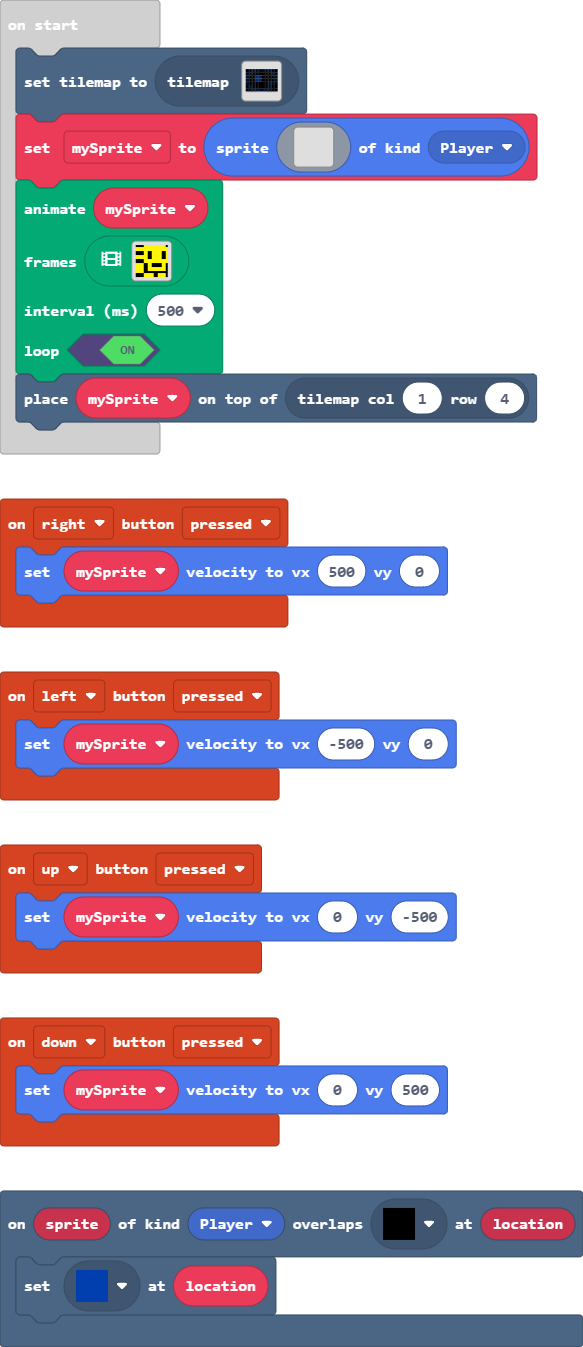
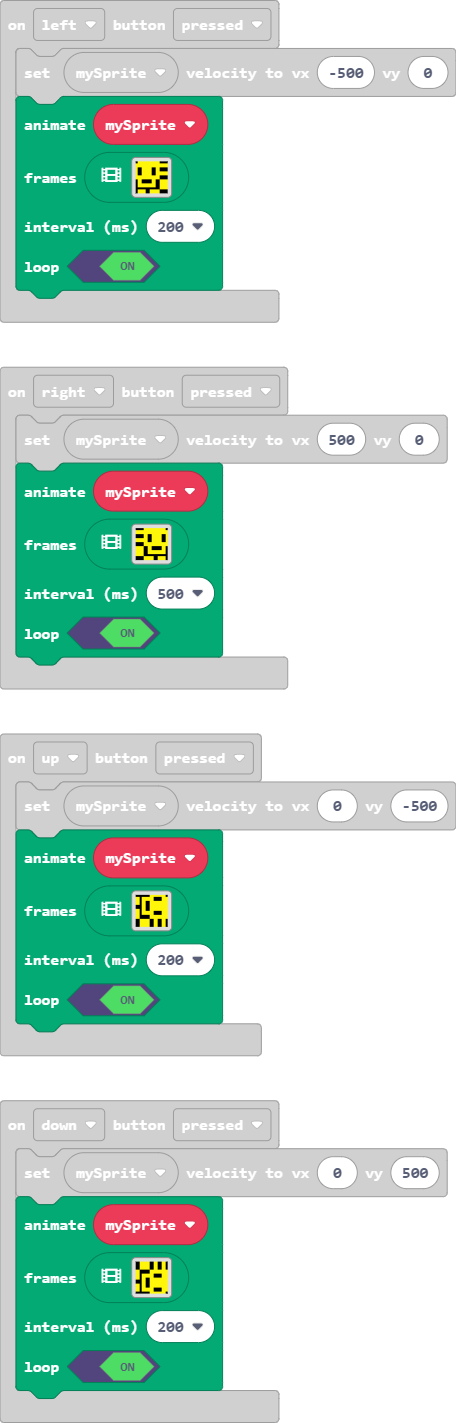
Update main.blocks, main.ts, tilemap.g.jres, tilemap.g.ts, images.g.jres, images.g.ts

diff --git a/images.g.ts b/images.g.ts
@@ -28,7 +28,7 @@ namespace myImages {
 
     helpers._registerFactory("animation", function(name: string) {
         switch(helpers.stringTrim(name)) {
-            case "myAnim":
+            case "hero_right":
             case "anim1":return [img`
 f f f f 5 5 5 5 5 5 5 5 5 5 5 f 
 5 5 5 5 5 5 5 5 5 5 5 5 5 5 5 5 
@@ -63,6 +63,114 @@ f f f f 5 5 5 5 5 5 5 5 5 5 5 5
 5 5 5 5 f f 5 5 5 5 5 5 5 5 5 f 
 f f f f 5 5 5 5 5 f f 5 5 5 5 f 
 f f f f 5 5 5 5 5 f f 5 5 5 5 f 
+`];
+            case "hero_left":
+            case "anim3":return [img`
+f 5 5 5 5 5 5 5 5 5 5 5 f f f f 
+5 5 5 5 5 5 5 5 5 5 5 5 5 5 5 5 
+5 5 5 5 5 5 5 5 5 5 5 5 5 5 5 5 
+5 f f 5 5 5 5 5 f f 5 5 f f f f 
+5 f f 5 5 5 5 5 f f 5 5 f f f f 
+5 f f 5 5 5 5 5 f f 5 5 5 5 5 5 
+5 f f 5 5 5 5 5 f f 5 5 5 5 5 5 
+5 5 5 5 5 5 5 5 5 5 5 5 f f f f 
+5 5 5 5 5 5 5 5 5 5 5 5 f f f f 
+f 5 5 f f f f f 5 5 f f 5 5 5 5 
+f 5 5 f f f f f 5 5 f f 5 5 5 5 
+f 5 5 5 5 5 5 5 5 5 f f 5 5 5 5 
+f 5 5 5 5 5 5 5 5 5 f f 5 5 5 5 
+f f f f f f f f f f f f 5 5 5 5 
+f 5 5 5 5 f f 5 5 5 5 5 f f f f 
+f 5 5 5 5 f f 5 5 5 5 5 f f f f 
+`, img`
+f f f f f f f f f f f f f f f f 
+f 5 5 5 5 5 5 5 5 5 5 5 f f f f 
+5 5 5 5 5 5 5 5 5 5 5 5 5 5 5 5 
+5 5 5 5 5 5 5 5 5 5 5 5 5 5 5 5 
+5 f f 5 5 5 5 5 f f 5 5 f f f f 
+5 f f 5 5 5 5 5 f f 5 5 f f f f 
+5 f f 5 5 5 5 5 f f 5 5 5 5 5 5 
+5 f f 5 5 5 5 5 f f 5 5 5 5 5 5 
+5 5 5 5 5 5 5 5 5 5 5 5 f f f f 
+5 5 5 5 5 5 5 5 5 5 5 5 f f f f 
+f 5 5 f f f f f 5 5 f f 5 5 5 5 
+f 5 5 f f f f f 5 5 f f 5 5 5 5 
+f 5 5 5 5 5 5 5 5 5 f f 5 5 5 5 
+f 5 5 5 5 5 5 5 5 5 f f 5 5 5 5 
+f 5 5 5 5 f f 5 5 5 5 5 f f f f 
+f 5 5 5 5 f f 5 5 5 5 5 f f f f 
+`];
+            case "hero_up":
+            case "anim4":return [img`
+f f f f f f f 5 5 5 5 5 5 5 5 f 
+5 5 f 5 5 5 5 5 5 f f f f 5 5 5 
+5 5 f 5 5 5 5 5 5 f f f f 5 5 5 
+5 5 f 5 5 f f 5 5 5 5 5 5 5 5 5 
+5 5 f 5 5 f f 5 5 5 5 5 5 5 5 5 
+f f f 5 5 f f 5 5 5 5 5 5 5 5 5 
+f f f 5 5 f f 5 5 5 5 5 5 5 5 5 
+5 5 f 5 5 f f 5 5 5 5 5 5 5 5 5 
+5 5 f 5 5 5 5 5 5 f f f f 5 5 5 
+5 5 f 5 5 5 5 5 5 f f f f 5 5 5 
+5 5 f f f f f 5 5 5 5 5 5 5 5 5 
+5 5 f f f f f 5 5 5 5 5 5 5 5 5 
+f f 5 5 5 5 5 f f 5 5 f f 5 5 f 
+f f 5 5 5 5 5 f f 5 5 f f 5 5 f 
+f f 5 5 5 5 5 f f 5 5 f f 5 5 f 
+f f 5 5 5 5 5 f f 5 5 f f 5 5 f 
+`, img`
+f f f f f f 5 5 5 5 5 5 5 5 f f 
+5 5 5 5 5 5 5 5 f f f f 5 5 5 f 
+5 5 5 5 5 5 5 5 f f f f 5 5 5 f 
+5 5 5 5 f f 5 5 5 5 5 5 5 5 5 f 
+5 5 5 5 f f 5 5 5 5 5 5 5 5 5 f 
+f f 5 5 f f 5 5 5 5 5 5 5 5 5 f 
+f f 5 5 f f 5 5 5 5 5 5 5 5 5 f 
+5 5 5 5 f f 5 5 5 5 5 5 5 5 5 f 
+5 5 5 5 5 5 5 5 f f f f 5 5 5 f 
+5 5 5 5 5 5 5 5 f f f f 5 5 5 f 
+5 5 f f f f 5 5 5 5 5 5 5 5 5 f 
+5 5 f f f f 5 5 5 5 5 5 5 5 5 f 
+f f 5 5 5 5 f f 5 5 f f 5 5 f f 
+f f 5 5 5 5 f f 5 5 f f 5 5 f f 
+f f 5 5 5 5 f f 5 5 f f 5 5 f f 
+f f 5 5 5 5 f f 5 5 f f 5 5 f f 
+`];
+            case "hero_down":
+            case "anim2":return [img`
+f f 5 5 5 5 5 f f 5 5 f f 5 5 f 
+f f 5 5 5 5 5 f f 5 5 f f 5 5 f 
+f f 5 5 5 5 5 f f 5 5 f f 5 5 f 
+f f 5 5 5 5 5 f f 5 5 f f 5 5 f 
+5 5 f f f f f 5 5 5 5 5 5 5 5 5 
+5 5 f f f f f 5 5 5 5 5 5 5 5 5 
+5 5 f 5 5 5 5 5 5 f f f f 5 5 5 
+5 5 f 5 5 5 5 5 5 f f f f 5 5 5 
+5 5 f 5 5 f f 5 5 5 5 5 5 5 5 5 
+f f f 5 5 f f 5 5 5 5 5 5 5 5 5 
+f f f 5 5 f f 5 5 5 5 5 5 5 5 5 
+5 5 f 5 5 f f 5 5 5 5 5 5 5 5 5 
+5 5 f 5 5 f f 5 5 5 5 5 5 5 5 5 
+5 5 f 5 5 5 5 5 5 f f f f 5 5 5 
+5 5 f 5 5 5 5 5 5 f f f f 5 5 5 
+f f f f f f f 5 5 5 5 5 5 5 5 f 
+`, img`
+f f 5 5 5 5 f f 5 5 f f 5 5 f f 
+f f 5 5 5 5 f f 5 5 f f 5 5 f f 
+f f 5 5 5 5 f f 5 5 f f 5 5 f f 
+f f 5 5 5 5 f f 5 5 f f 5 5 f f 
+5 5 f f f f 5 5 5 5 5 5 5 5 5 f 
+5 5 f f f f 5 5 5 5 5 5 5 5 5 f 
+5 5 5 5 5 5 5 5 f f f f 5 5 5 f 
+5 5 5 5 5 5 5 5 f f f f 5 5 5 f 
+5 5 5 5 f f 5 5 5 5 5 5 5 5 5 f 
+f f 5 5 f f 5 5 5 5 5 5 5 5 5 f 
+f f 5 5 f f 5 5 5 5 5 5 5 5 5 f 
+5 5 5 5 f f 5 5 5 5 5 5 5 5 5 f 
+5 5 5 5 f f 5 5 5 5 5 5 5 5 5 f 
+5 5 5 5 5 5 5 5 f f f f 5 5 5 f 
+5 5 5 5 5 5 5 5 f f f f 5 5 5 f 
+f f f f f f 5 5 5 5 5 5 5 5 f f 
 `];
         }
         return null;

diff --git a/tilemap.g.ts b/tilemap.g.ts
@@ -37,16 +37,6 @@ namespace myTiles {
 
     helpers._registerFactory("tilemap", function(name: string) {
         switch(helpers.stringTrim(name)) {
-            case "level1":
[1 lines of base64/hex data omitted]
-. 2 2 2 2 2 2 2 2 . 
-2 2 . . . . . . 2 2 
-2 . . 2 2 . . . . 2 
-2 . . 2 2 . . . . 2 
-2 . . . . . . 2 2 2 
-2 2 . . . . . 2 . . 
-. 2 2 2 2 2 2 2 . . 
-`, [myTiles.transparency16,myTiles.tile1,myTiles.tile2,myTiles.tile7,myTiles.tile14,myTiles.tile15,myTiles.tile16,myTiles.tile17,myTiles.tile18,myTiles.tile19,myTiles.tile20,myTiles.tile21,myTiles.tile22,myTiles.tile23,myTiles.tile24], TileScale.Sixteen);
             case "leve0":
[1 lines of base64/hex data omitted]
 2 2 2 2 2 2 2 2 2 2 
@@ -60,6 +50,16 @@ namespace myTiles {
 2 . . . . . . . . 2 
 2 2 2 2 2 2 2 2 2 2 
 `, [myTiles.transparency16,myTiles.tile2,myTiles.tile1,myTiles.tile7,myTiles.tile15,myTiles.tile16,myTiles.tile17,myTiles.tile22,myTiles.tile18,myTiles.tile20,myTiles.tile21,myTiles.tile24,myTiles.tile23], TileScale.Sixteen);
+            case "level1":
[1 lines of base64/hex data omitted]
+2 2 2 2 2 2 2 2 2 . 
+2 . . . . . . . 2 2 
+2 . . 2 2 . . . . 2 
+2 . . 2 2 . . . . 2 
+2 . . . . . . 2 2 2 
+2 2 . . . . . 2 . . 
+. 2 2 2 2 2 2 2 . . 
+`, [myTiles.transparency16,myTiles.tile1,myTiles.tile2,myTiles.tile7,myTiles.tile14,myTiles.tile15,myTiles.tile16,myTiles.tile17,myTiles.tile19,myTiles.tile20,myTiles.tile21,myTiles.tile22,myTiles.tile23,myTiles.tile24], TileScale.Sixteen);
         }
         return null;
     })

diff --git a/main.ts b/main.ts
@@ -1,24 +1,48 @@
 controller.up.onEvent(ControllerButtonEvent.Pressed, function () {
     mySprite.setVelocity(0, -500)
+    animation.runImageAnimation(
+    mySprite,
+    assets.animation`hero_up`,
+    200,
+    true
+    )
 })
 scene.onOverlapTile(SpriteKind.Player, assets.tile`empty`, function (sprite, location) {
     tiles.setTileAt(location, assets.tile`completed`)
 })
 controller.left.onEvent(ControllerButtonEvent.Pressed, function () {
     mySprite.setVelocity(-500, 0)
+    animation.runImageAnimation(
+    mySprite,
+    assets.animation`hero_left`,
+    200,
+    true
+    )
 })
 controller.right.onEvent(ControllerButtonEvent.Pressed, function () {
     mySprite.setVelocity(500, 0)
+    animation.runImageAnimation(
+    mySprite,
+    assets.animation`hero_right`,
+    500,
+    true
+    )
 })
 controller.down.onEvent(ControllerButtonEvent.Pressed, function () {
     mySprite.setVelocity(0, 500)
+    animation.runImageAnimation(
+    mySprite,
+    assets.animation`hero_down`,
+    200,
+    true
+    )
 })
 let mySprite: Sprite = null
 tiles.setCurrentTilemap(tilemap`level1`)
 mySprite = sprites.create(assets.image`empty`, SpriteKind.Player)
 animation.runImageAnimation(
 mySprite,
-assets.animation`myAnim`,
+assets.animation`hero_right`,
 500,
 true
 )
